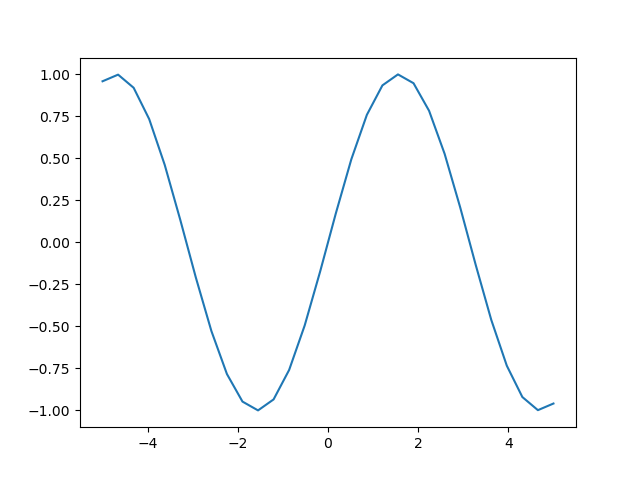
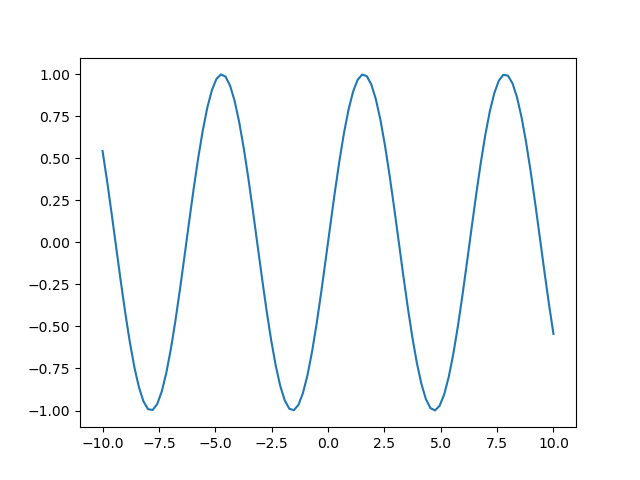
Added LS Extrapolation, data vizualization

diff --git a/Extrapolation/Extrapolation/Extrapolation.cpp b/Extrapolation/Extrapolation/Extrapolation.cpp
@@ -87,6 +87,34 @@ std::pair<std::vector<double>, std::vector<double>> read_file(std::string file_p
 }
 
 
+void write_file(std::string file_path, std::vector<double> x_test, std::vector<double> y_test, std::vector<double> prediction) {
+    std::ofstream fout;
+    fout.open(file_path);
+
+    if (fout.is_open()) {
+        for (double x : x_test) {
+            fout << x << ' ';
+        }
+
+        fout << std::endl;
+
+
+        for (double y : y_test) {
+            fout << y << ' ';
+        }
+
+        fout << std::endl;
+
+
+        for (double pred : prediction) {
+            fout << pred << ' ';
+        }
+
+        fout << std::endl;
+    }
+}
+
+
 std::pair<std::vector<double>, std::vector<double>> split_vector(std::vector<double> vect, double split = 0.7) {
     std::size_t const half_size = (int)(vect.size() * 0.7);
     std::vector<double> down(vect.begin(), vect.begin() + half_size);
@@ -107,7 +135,7 @@ int main()
     for (std::string& name : file_names) {
         auto x_y = read_file("data/" + name);
 
-        mnk_reg LSE(3, 1);
+        mnk_reg LSE(5, 0.05);
 
         x = x_y.first;
         y = x_y.second;
@@ -118,12 +146,17 @@ int main()
         y_train = y_train_test.first;
         y_test = y_train_test.second;
 
-        prediction = LSE.fit_predict(x_train, y_train);
+        prediction = LSE.fit_predict(x_train, y_train, x_test);
+
+        write_file("data/" + name + "_test", x_test, y_test, prediction);
         
-        std::cout << "mae error in file " << name << ": " << mae(y_train, prediction) << std::endl;
-        std::cout << "r2 score in file " << name << ": " << r2_score(y_train, prediction) << std::endl;
-        std::cout << "SMAPE in file " << name << ": " << SMAPE(y_train, prediction) << "%" << std::endl << std::endl;
+        std::cout << "mean absolute error in file " << name << ": " << mae(y_test, prediction) << std::endl;
+        std::cout << "r2 score in file " << name << ": " << r2_score(y_test, prediction) << std::endl;
+        std::cout << "SMAPE in file " << name << ": " << SMAPE(y_test, prediction) << "%" << std::endl << std::endl;
+
     }
+
+    //system("python data/data_viz.py");
 
     return 0;
 }

diff --git a/Extrapolation/Extrapolation/data/data_generator.py b/Extrapolation/Extrapolation/data/data_generator.py
@@ -2,10 +2,10 @@ import numpy as np
 from matplotlib import pyplot as plt
 np.random.seed(42)
 
-x = np.linspace(-5, 5, 30)
+x = np.linspace(-10, 10, 100)
 functions = [lambda x: np.sin(x),
              lambda x: np.log(abs(x)),
-             lambda x: np.random.randint(-1, 1),
+             lambda x: np.random.randint(-100, 100)/100,
              lambda x: (x-15)*(x+4)*(x-3)*(x+2)*(x-1) / 1000,
              lambda x: (x-5)*(x+5)*(x-1)/30 + np.random.randint(-1, 1)
             ]

diff --git a/Extrapolation/Extrapolation/data/data_viz.py b/Extrapolation/Extrapolation/data/data_viz.py
@@ -1,0 +1,13 @@
+from matplotlib import pyplot as plt
+
+files = ['0_test', '1_test', '2_test', '3_test', '4_test']
+
+for file in files:
+    with open(file, 'r') as f:
+        x = list(map(float, f.readline().split()))
+        y = list(map(float, f.readline().split()))
+        predictoin = list(map(float, f.readline().split()))
+        plt.figure()
+        plt.plot(x, y)
+        plt.plot(x, predictoin)
+        plt.savefig(file)
